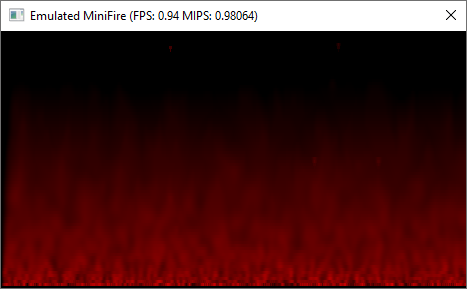
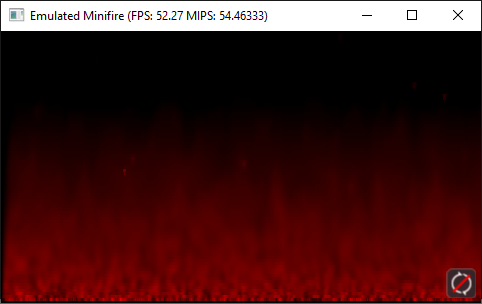
Some small fixes

Changed region(s): [[0.0, 0.0, 1.0, 0.9965], [0.3298, 0.872, 0.3597, 0.9343], [0.03, 0.8408, 0.06, 0.9031]]

diff --git a/src/main/Video.cpp b/src/main/Video.cpp
@@ -8,6 +8,7 @@
 #define GLEW_STATIC
 #include <gl/glew.h>
 #include <glfw3.h>
+#include <sstream>
 
 CVideo &Video = CVideo::GetSingleton();
 
@@ -16,6 +17,7 @@ HDC			hDC = NULL;		// Private GDI Device Context
 HGLRC		hRC = NULL;		// Permanent Rendering Context
 GLuint texFb;
 float texS, texT;
+std::string windowtitle = "Emulated Minifire";
 
 static u32 makePow2(u32 n) {
 	--n;
@@ -66,7 +68,7 @@ bool CVideo::Initialize() {
 	glfwWindowHint(GLFW_CONTEXT_VERSION_MAJOR, 2);
 	glfwWindowHint(GLFW_CONTEXT_VERSION_MINOR, 0);
 
-	window = glfwCreateWindow(480, 272, "Emulated MiniFire", NULL, NULL);
+	window = glfwCreateWindow(480, 272, windowtitle.c_str(), NULL, NULL);
 
 	if (!window)
 	{
@@ -238,28 +240,16 @@ PspDisplayErrorCodes CVideo::sceDisplaySetFrameBuf(
 	++cntFrame;
 
 	QueryPerformanceCounter((LARGE_INTEGER*)&cntEnd);
-	/*if ((cntEnd - cntStart) > cntFreq) {
+	if ((cntEnd - cntStart) > cntFreq) {
 		double fix = (double)cntFreq / (cntEnd - cntStart);
-		_stprintf_s(
-			windowTitle,
-			sizeof(windowTitle) / sizeof(TCHAR),
-			_T("%s (FPS: %.2lf MIPS: %.5lf)"),
-			MainWindow.GetTitle(),
-			cntFrame * fix,
-			(Cpu.cycles - prevCycles) * fix /
-			1000000.0f);
-		MainWindow.SetTitle(windowTitle);
+        char title[256];
+        title[255] = '\0';
+        snprintf(title, 255, "%s (FPS: %.2lf MIPS: %.5lf)", windowtitle.c_str(),cntFrame * fix, (Cpu.cycles - prevCycles) * fix / 1000000.0f);
+        glfwSetWindowTitle(window, title);
 		cntFrame = 0;
 		cntStart = cntEnd;
 		prevCycles = Cpu.cycles;
 	}
-
-	MSG msg;
-	while (PeekMessage(&msg, NULL, 0, 0, PM_REMOVE)) {
-		if (msg.message == WM_QUIT) break;
-		TranslateMessage(&msg);
-		DispatchMessage(&msg);
-	}*/
 
 	return SCE_DISPLAY_ERROR_OK;
 }
